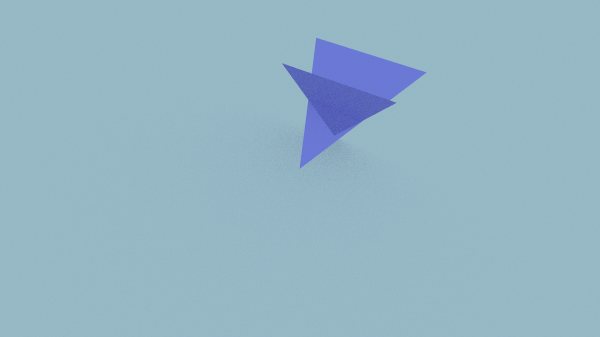
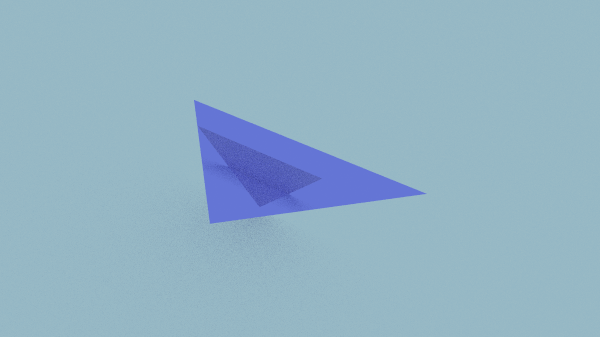
depth problem

Changed region(s): [[0.3, 0.1187, 0.72, 0.6825]]

diff --git a/Reza_Raytracer/HittableList.cpp b/Reza_Raytracer/HittableList.cpp
@@ -39,13 +39,17 @@ void HittableList::CreateWorld()
     //objects.push_back(make_unique<Sphere>(Point3(1.1, 0, -1), 0.5, material_center));
     objects.push_back(make_unique<Sphere>(Point3(0, -100, -1), 100, material_ground) );
 
-    objects.push_back(make_unique<Triangle>(Point3(0, 0, -1),
+    /*objects.push_back(make_unique<Triangle>(Point3(0, 0, -1),
 												Point3(0.5, 0.5, -2),
 												Point3(-0.5, 0.5, -2),
-											    material_center));
-    objects.push_back(make_unique<Triangle>(Point3(0, 0, -1.5),
-										        Point3(0.5, 0.5, -1.5),
-										        Point3(-0.5, 0.5, -1.5),
+											    material_center));*/
+    objects.push_back(make_unique<Triangle>(Point3( 0, 0.25, 0),
+												Point3(1, 0.25, -1),
+										        Point3(-1, 0.25, -1),        
+										        material_center));
+    objects.push_back(make_unique<Triangle>(Point3(0, 0, -0.5),
+										        Point3(0.5, 0.5, -0.5),
+										        Point3(-0.5, 0.5, -0.5),
 										        material_center));
 	
 	//objects.push_back(make_unique<XYRectangle>(-0.25, 0.25, 0.15, 0.65, -1.75, material_light));

diff --git a/Reza_Raytracer/main.cpp b/Reza_Raytracer/main.cpp
@@ -90,9 +90,9 @@ int main()
 	const int image_width = 600;
 	const int image_height = static_cast<int>(image_width / camera.GetAspectRatio());
 	ImageHandler imgHandler(image_width, image_height); // set up image handler
-	const int samples_per_pixel = 100; // 100
+	const int samples_per_pixel = 50; // 100
 	auto scale = 1.0 / samples_per_pixel;
-	const int max_depth = 50; // 50
+	const int max_depth = 5; // 50
 
 	 // World
 	HittableList world;
